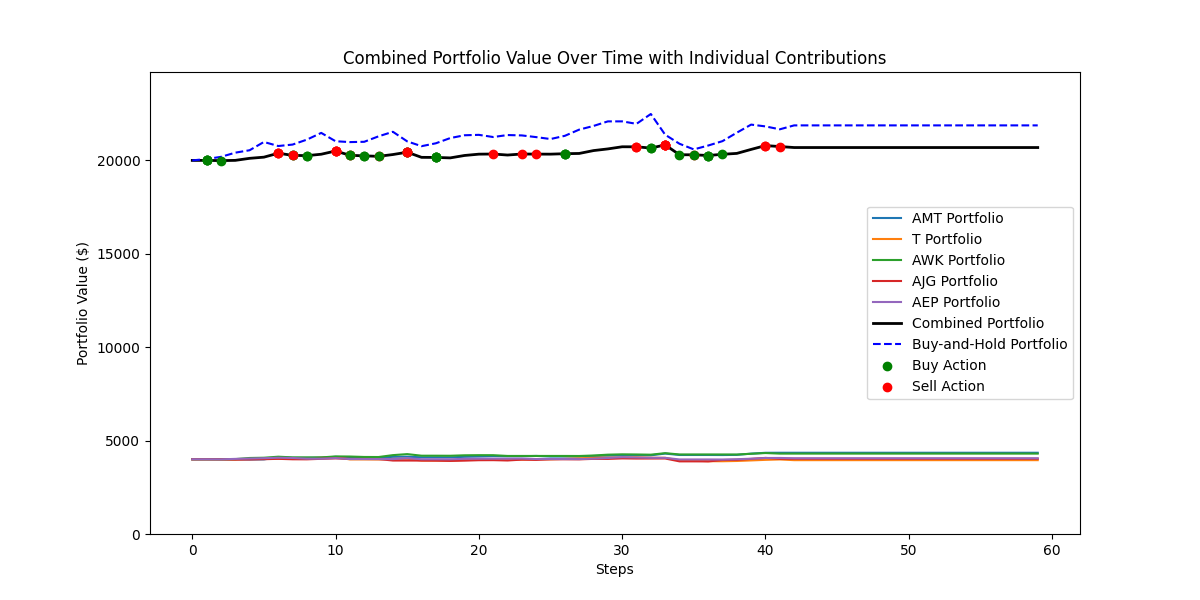
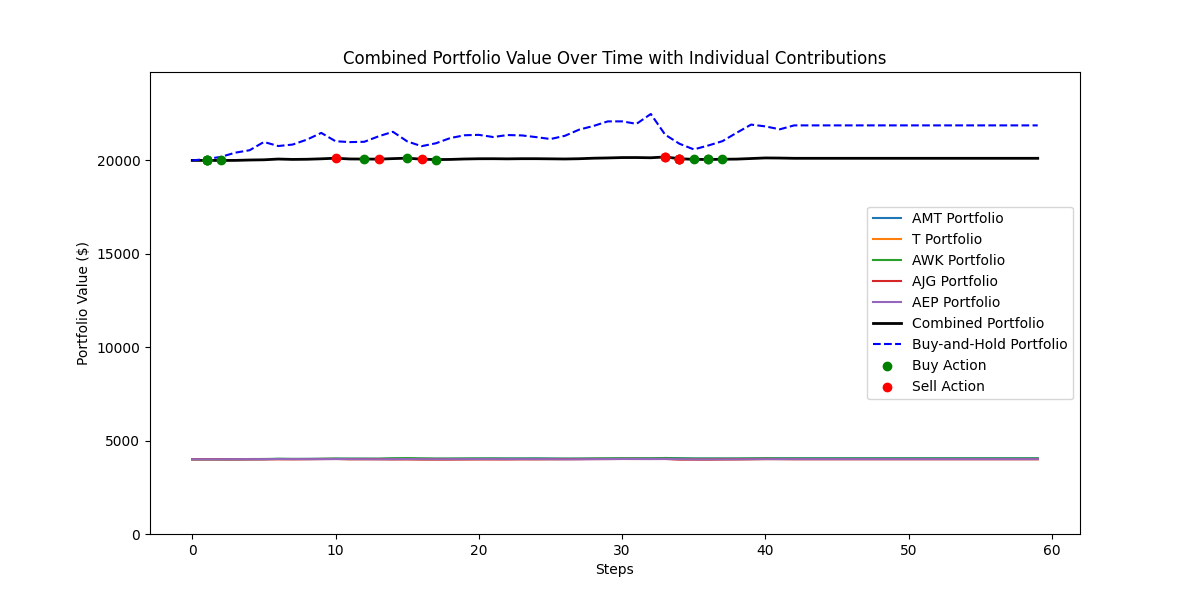
Update

Changed region(s): [[0.185, 0.75, 0.8633, 0.78], [0.185, 0.24, 0.8633, 0.27]]

diff --git a/src/main.py b/src/main.py
@@ -22,10 +22,11 @@ matplotlib.use("MacOSX")
 # --- Constants ---
 INITIAL_BALANCE = 20000
 TRANSACTION_COST = 0.0015
-POSITION_SIZE = 0.5
+POSITION_SIZE = 0.2  # Reduced position size for more conservative trading
 BACKTEST_PERIOD = 60
-STOP_LOSS = 0.1
-TAKE_PROFIT = 0.1
+STOP_LOSS = 0.2  # Increased stop-loss threshold
+TAKE_PROFIT = 0.2  # Increased take-profit threshold
+MIN_HOLDING_PERIOD = 5  # Minimum holding period in steps
 
 # Define fixed stop-loss and take-profit thresholds
 FIXED_STOP_LOSS = {}
@@ -47,6 +48,7 @@ class TradingEnv:
         self.dynamic_stop_loss = STOP_LOSS  # Dynamic stop-loss
         self.dynamic_take_profit = TAKE_PROFIT  # Dynamic take-profit
         self.trailing_stop_price = None  # Add a variable to track the trailing stop price
+        self.holding_period = 0  # Track the holding period for shares
 
     def reset(self):
         """Reset the environment to initial state."""
@@ -56,6 +58,7 @@ class TradingEnv:
         self.portfolio_history = [self.cash]
         self.trade_log = []
         self.trailing_stop_price = None  # Reset the trailing stop price
+        self.holding_period = 0  # Reset holding period
 
     def detect_market_trend(self):
         """Detect market trend using moving averages."""
@@ -121,14 +124,18 @@ class TradingEnv:
                 self.trailing_stop_price = current_price * (1 - self.dynamic_stop_loss)
                 print(f"Step {self.current_step}: Updated Trailing Stop Price: {self.trailing_stop_price:.2f}")
 
-            # Sell logic: Sell if price drops below the trailing stop price
-            if current_price <= self.trailing_stop_price:
+            # Update holding period if shares are held
+            self.holding_period += 1
+
+            # Modify sell logic to enforce minimum holding period
+            if self.holding_period >= MIN_HOLDING_PERIOD and current_price <= self.trailing_stop_price:
                 print(f"Step {self.current_step}: Trailing Stop-Loss Triggered! Current Price: {current_price:.2f}, Trailing Stop Price: {self.trailing_stop_price:.2f}")
                 self.cash += self.shares * current_price * (1 - self.transaction_cost)
                 self.trade_log.append((self.current_step, "SELL", current_price, self.shares))
                 print(f"Step {self.current_step}: Sold {self.shares} shares at {current_price:.2f} due to trailing stop-loss")
                 self.shares = 0
                 self.trailing_stop_price = None
+                self.holding_period = 0  # Reset holding period after selling
 
         # Update portfolio value
         portfolio_value = self.cash + self.shares * current_price
@@ -244,22 +251,29 @@ def main():
     top_tickers = get_top_performing_stocks_ytd(sp500=True, n=5)
     print(f"📈 Selected tickers: {', '.join(top_tickers)}\n")
 
-    X_train = [[0.01, 0.02], [0.02, 0.03], [0.03, 0.04], [0.04, 0.05]]  # Add more samples
-    y_train = [1, 0, 1, 0]  # Ensure balanced classes with enough samples
+    # Expand training data
+    X_train = [[0.01, 0.02], [0.02, 0.03], [0.03, 0.04], [0.04, 0.05], [0.05, 0.06], [0.06, 0.07]]
+    y_train = [1, 0, 1, 0, 1, 0]  # Ensure balanced classes with more samples
 
     # Define the custom strategy
     strategy = CustomTradingStrategy()
 
-    # Optimize strategy parameters
+    # Refine parameter grid
     param_grid = {
-        'STOP_LOSS': [0.01, 0.02, 0.05],
-        'TAKE_PROFIT': [0.01, 0.02, 0.05],
+        'STOP_LOSS': [0.05, 0.1, 0.15],
+        'TAKE_PROFIT': [0.05, 0.1, 0.15],
+        'POSITION_SIZE': [0.1, 0.15, 0.2],  # Narrowed range for POSITION_SIZE
+        'TRAILING_STOP': [0.01, 0.02, 0.03, 0.04, 0.05],  # Refined range for trailing stop
     }
-    best_params = optimize_parameters(strategy, param_grid, X_train, y_train)  # Pass training data
+
+    # Add cross-validation during optimization
+    best_params = optimize_parameters(strategy, param_grid, X_train, y_train, cv=3)  # Use 3-fold cross-validation
     print(f"🔧 Optimized Parameters: {best_params}")
-    global STOP_LOSS, TAKE_PROFIT
+    global STOP_LOSS, TAKE_PROFIT, POSITION_SIZE, TRAILING_STOP
     STOP_LOSS = best_params['STOP_LOSS']
     TAKE_PROFIT = best_params['TAKE_PROFIT']
+    POSITION_SIZE = best_params['POSITION_SIZE']
+    TRAILING_STOP = best_params['TRAILING_STOP']  # Update global variable for trailing stop
 
     start_date = datetime.today() - timedelta(days=BACKTEST_PERIOD)
     end_date = datetime.today()

diff --git a/src/custom_strategy.py b/src/custom_strategy.py
@@ -1,9 +1,29 @@
 from sklearn.base import BaseEstimator
 
 class CustomTradingStrategy(BaseEstimator):
-    def __init__(self, STOP_LOSS=0.01, TAKE_PROFIT=0.01):
+    def __init__(self, STOP_LOSS=0.1, TAKE_PROFIT=0.1, POSITION_SIZE=0.2, TRAILING_STOP=0.02):
         self.STOP_LOSS = STOP_LOSS
         self.TAKE_PROFIT = TAKE_PROFIT
+        self.POSITION_SIZE = POSITION_SIZE
+        self.TRAILING_STOP = TRAILING_STOP  # Add TRAILING_STOP parameter
+
+    def set_params(self, **params):
+        """Set parameters for the strategy."""
+        for param, value in params.items():
+            if hasattr(self, param):
+                setattr(self, param, value)
+            else:
+                raise ValueError(f"Invalid parameter '{param}' for estimator {self.__class__.__name__}.")
+        return self
+
+    def get_params(self, deep=True):
+        """Get parameters for the strategy."""
+        return {
+            "STOP_LOSS": self.STOP_LOSS,
+            "TAKE_PROFIT": self.TAKE_PROFIT,
+            "POSITION_SIZE": self.POSITION_SIZE,
+            "TRAILING_STOP": self.TRAILING_STOP,  # Include TRAILING_STOP in parameters
+        }
 
     def fit(self, X, y):
         # Implement your training logic here
@@ -17,3 +37,8 @@ class CustomTradingStrategy(BaseEstimator):
         # Implement a scoring method (e.g., accuracy)
         predictions = self.predict(X)
         return sum(p == t for p, t in zip(predictions, y)) / len(y)
+
+    def evaluate(self, X, y):
+        """Evaluate the strategy (dummy implementation)."""
+        # Replace this with actual evaluation logic
+        return 0.5  # Dummy score

diff --git a/src/parameter_optimization.py b/src/parameter_optimization.py
@@ -1,16 +1,7 @@
-def optimize_parameters(strategy, param_grid, X_train=None, y_train=None):
-    """
-    Optimize parameters for a given strategy using grid search.
-    """
-    if X_train is None or y_train is None:
-        raise ValueError("X_train and y_train must be provided for parameter optimization.")
+from sklearn.model_selection import GridSearchCV
 
-    from sklearn.model_selection import GridSearchCV
-
-    # Ensure `strategy` is a valid estimator compatible with GridSearchCV
-    if not hasattr(strategy, 'fit'):
-        raise ValueError("The provided strategy must have a 'fit' method to be compatible with GridSearchCV.")
-    grid_search = GridSearchCV(strategy, param_grid, cv=2, scoring='accuracy')  # Use cv=2
+def optimize_parameters(strategy, param_grid, X_train, y_train, cv=3):
+    """Optimize strategy parameters using GridSearchCV with cross-validation."""
+    grid_search = GridSearchCV(estimator=strategy, param_grid=param_grid, cv=cv, scoring='accuracy')
     grid_search.fit(X_train, y_train)
-
     return grid_search.best_params_
